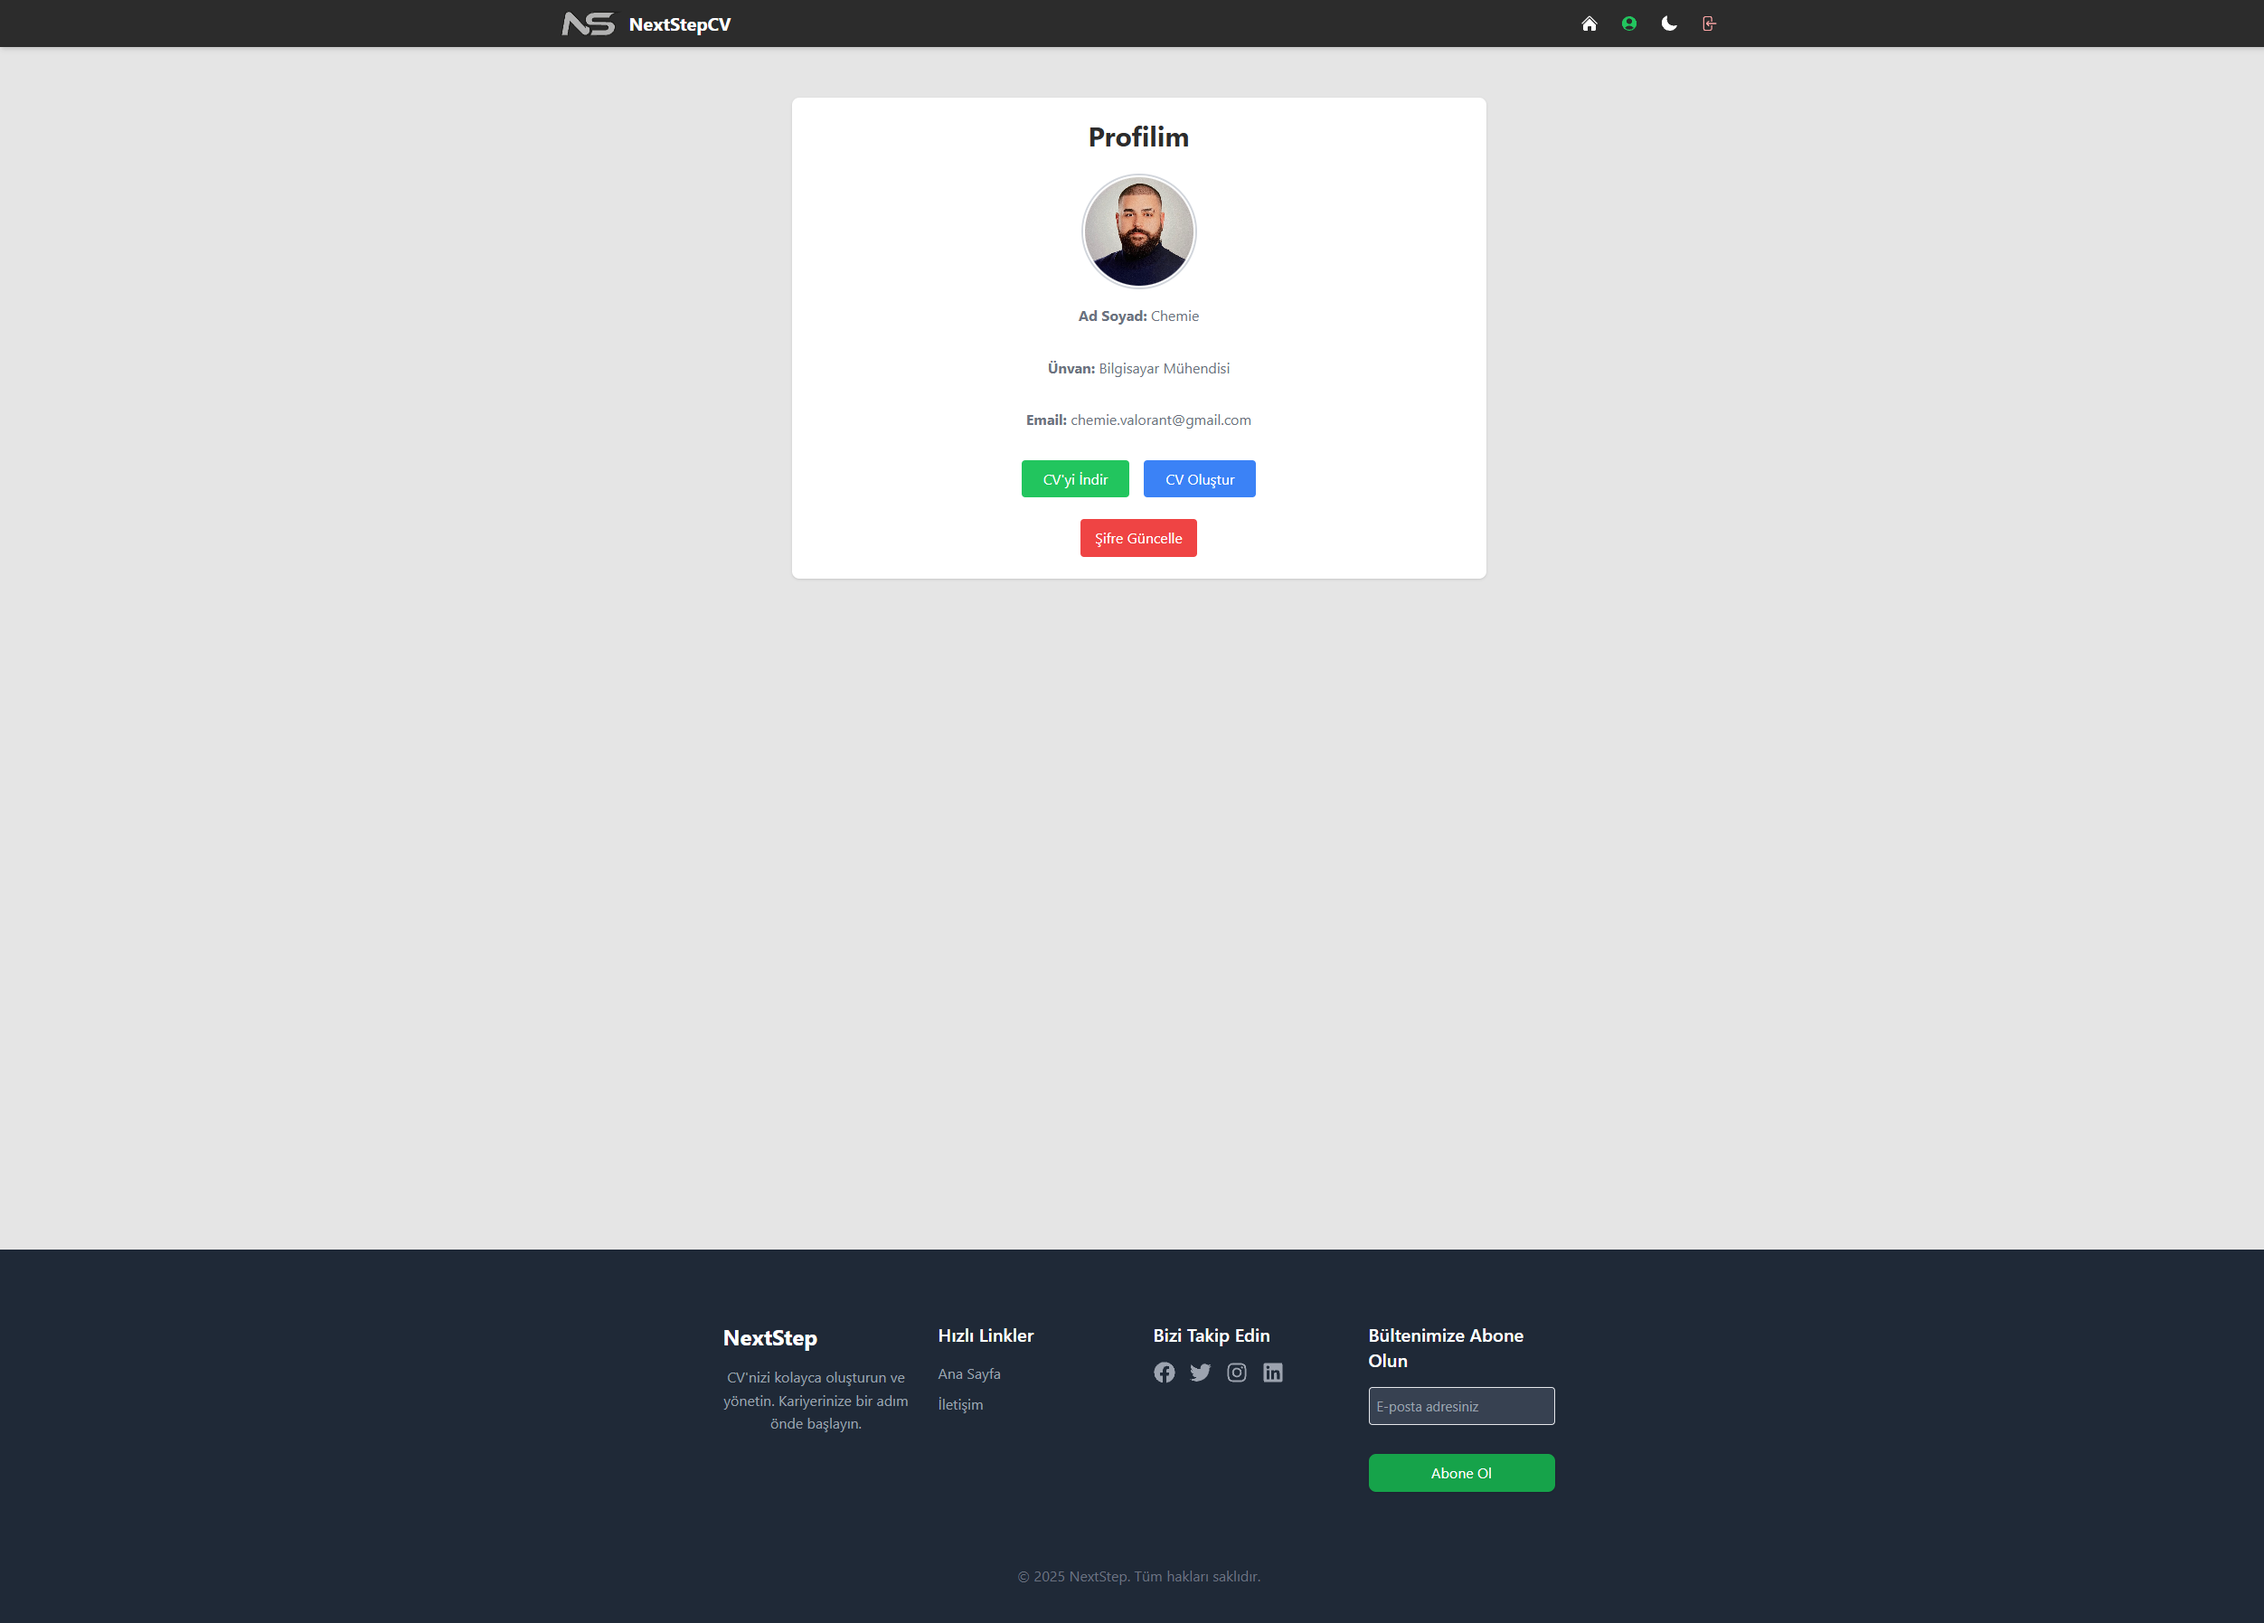
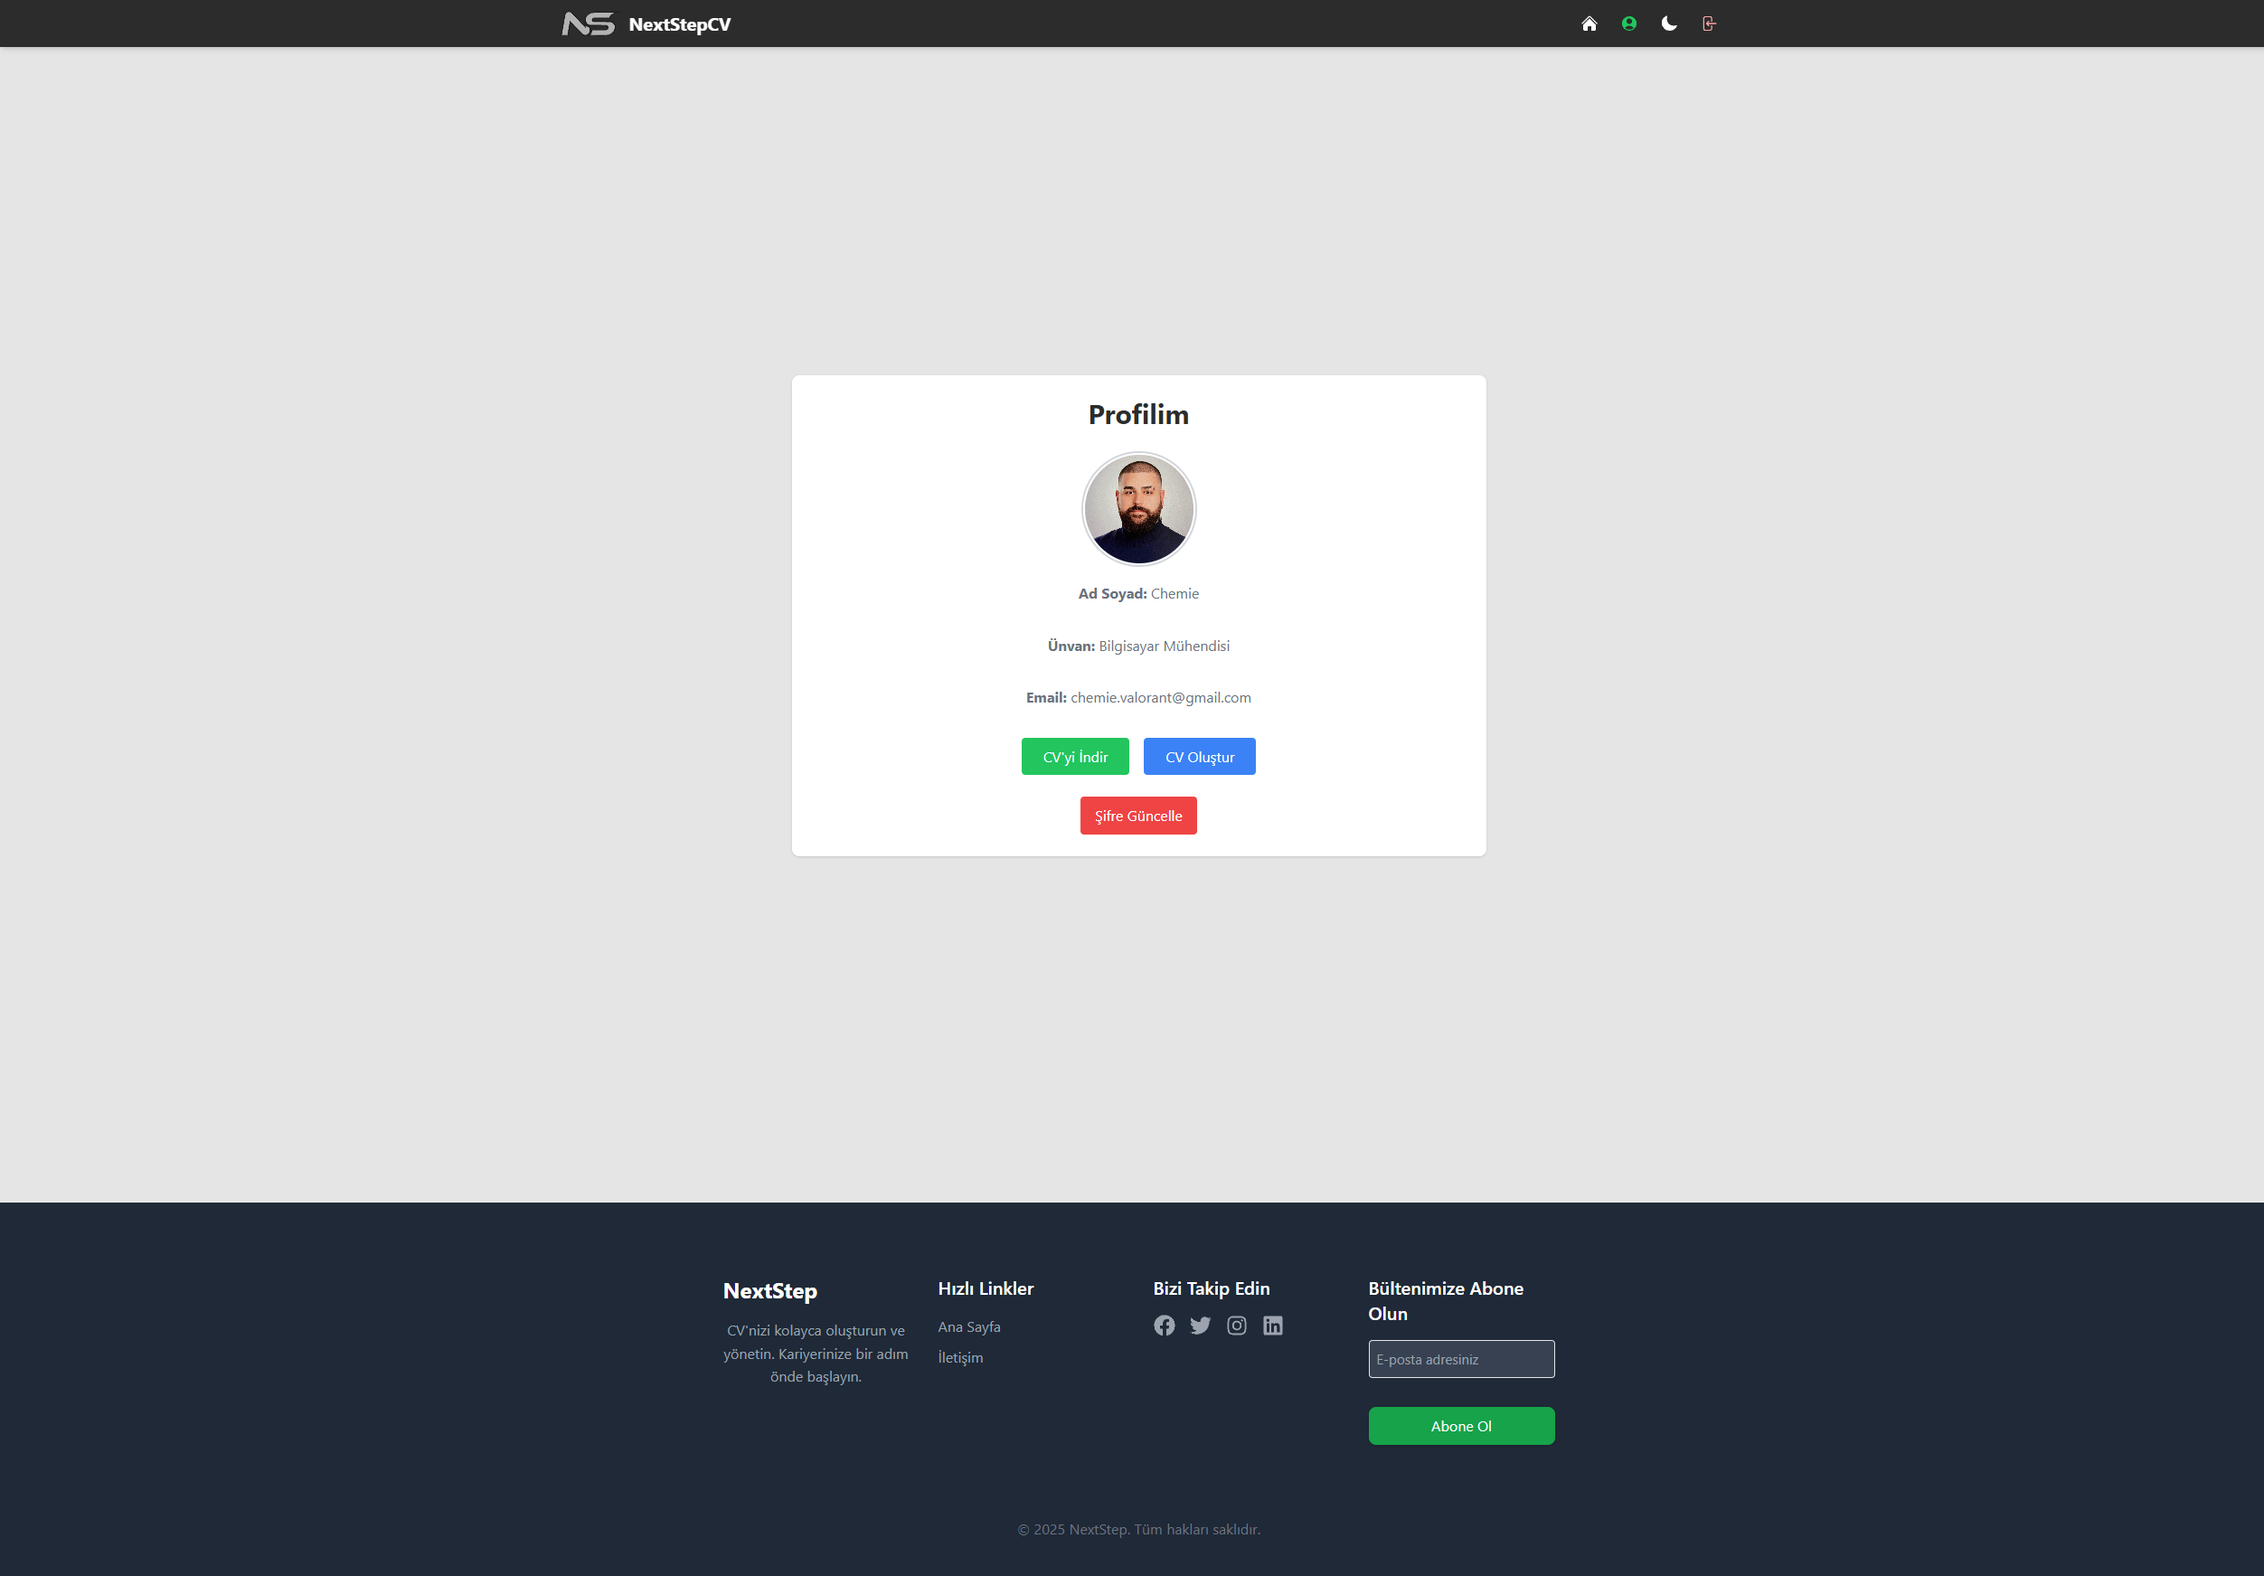
socials kısmı template ve pdf'e eklendi. cv preview ve profile kısımları ui güncellemesi yapıldı. navbar sayfayla birlikte hareket ediyor (fixed yapıldı).

diff --git a/src/components/templates/TemplateSimple.jsx b/src/components/templates/TemplateSimple.jsx
@@ -104,19 +104,38 @@ const TemplateSimple = forwardRef(({ data }, ref) => {
               <p className="font-bold mb-0 text-left text-gray-700">{p.title}</p>
               <p className="text-gray-800 mb-0 text-left">{p.description}</p>
               {p.link && (
-                <p
+                <a
                   href={p.link}
                   className="text-blue-600 underline text-sm text-left"
                   target="_blank"
-                  rel="noreferrer"
+                  rel="noopener noreferrer"
                 >
                   {p.link}
-                </p>
+                </a>
               )}
             </div>
           ))}
         </div>
       )}
+      {/* Social Links */}
+      {data.socials?.length > 0 && (
+        <div className="mb-5">
+          <h2 className="font-bold text-lg border-b border-gray-300 pb-1 mb-2">Socials</h2>
+          {data.socials.map((social, i) => (
+            <div key={i} className="mb-1">
+              <a
+                href={social.url}
+                target="_blank"
+                rel="noopener noreferrer"
+                className="text-blue-600 underline text-sm"
+              >
+                {social.name}
+              </a>
+            </div>
+          ))}
+        </div>
+      )}
+
     </div>
   );
 });

diff --git a/src/components/pdf/CvPdf.jsx b/src/components/pdf/CvPdf.jsx
@@ -41,7 +41,7 @@ const styles = StyleSheet.create({
     fontSize: 20,
     fontWeight: "bold",
     marginBottom: 10,
-    textTransform: "uppercase", 
+    textTransform: "uppercase",
   },
   title: {
     fontSize: 12,
@@ -200,7 +200,25 @@ const CvPDF = ({ formData }) => {
                 <Text style={styles.itemTitle}>{p.title}</Text>
                 <Text style={styles.itemText}>{p.description}</Text>
                 {p.link && (
-                  <Text style={{ color: "blue" }}>{p.link}</Text>
+                  <Text style={{ color: "blue" }} src={p.link}>{p.link}</Text>
+                )}
+              </View>
+            ))}
+          </View>
+        )}
+        {/* SOCIALS */}
+        {formData.socials?.length > 0 && (
+          <View style={styles.section}>
+            <Text style={styles.sectionTitle}>Socials</Text>
+            {formData.socials.map((social, i) => (
+              <View key={i}>
+                {social.url && (
+                  <Text
+                    style={{ color: "blue", marginBottom: 3 }}
+                    src={encodeURI(social.url)}
+                  >
+                    {social.name}
+                  </Text>
                 )}
               </View>
             ))}

diff --git a/src/pages/Profile.jsx b/src/pages/Profile.jsx
@@ -120,12 +120,12 @@ const Profile = () => {
 
 
   return (
-    <div className="min-h-screen bg-[#e5e5e5] p-6 dark:bg-gray-900 ">
+    <div className="min-h-screen bg-[#e5e5e5] p-6 dark:bg-gray-900 flex justify-center items-center">
       <motion.div
         initial={{ opacity: 0, y: 30 }}
         animate={{ opacity: 1, y: 0 }}
         transition={{ duration: 0.4 }}
-        className="max-w-3xl mx-auto p-6 bg-white rounded-lg shadow mt-8 dark:bg-gray-800 dark:text-white"
+        className="max-w-3xl mx-auto p-6 bg-white rounded-lg shadow mt-8 dark:bg-gray-800 dark:text-white w-full"
       >
         <h1 className="text-3xl font-bold text-center mb-6 dark:text-white">Profilim</h1>
 

diff --git a/src/components/Navbar.jsx b/src/components/Navbar.jsx
@@ -60,7 +60,7 @@ const Navbar = () => {
   };
 
   return (
-    <nav className="bg-[#2c2c2c] text-white px-4 py-3 shadow-md relative z-50">
+    <nav className="bg-[#2c2c2c] text-white px-4 py-3 shadow-md fixed top-0 left-0 w-full z-50">
       <div className="max-w-7xl mx-auto flex items-center justify-between">
         {/* Logo */}
         <Link to="/" className="flex items-center space-x-2">

diff --git a/src/components/steps/StepProjects.jsx b/src/components/steps/StepProjects.jsx
@@ -34,7 +34,7 @@ const StepProjects = ({ data, setData }) => {
               href={p.link}
               target="_blank"
               rel="noreferrer"
-              className="text-sm text-blue-600 underline"
+              className="text-sm text-blue-600 underline text-center block"
             >
               {p.link}
             </a>

diff --git a/src/pages/CvPreview.jsx b/src/pages/CvPreview.jsx
@@ -86,7 +86,7 @@ const CvPreview = () => {
   }
 
   return (
-    <div className="dark:bg-gray-900 dark:text-white">
+    <div className="dark:bg-gray-900 dark:text-white mt-12">
       <motion.div
         initial={{ opacity: 0, y: 30 }}
         animate={{ opacity: 1, y: 0 }}
